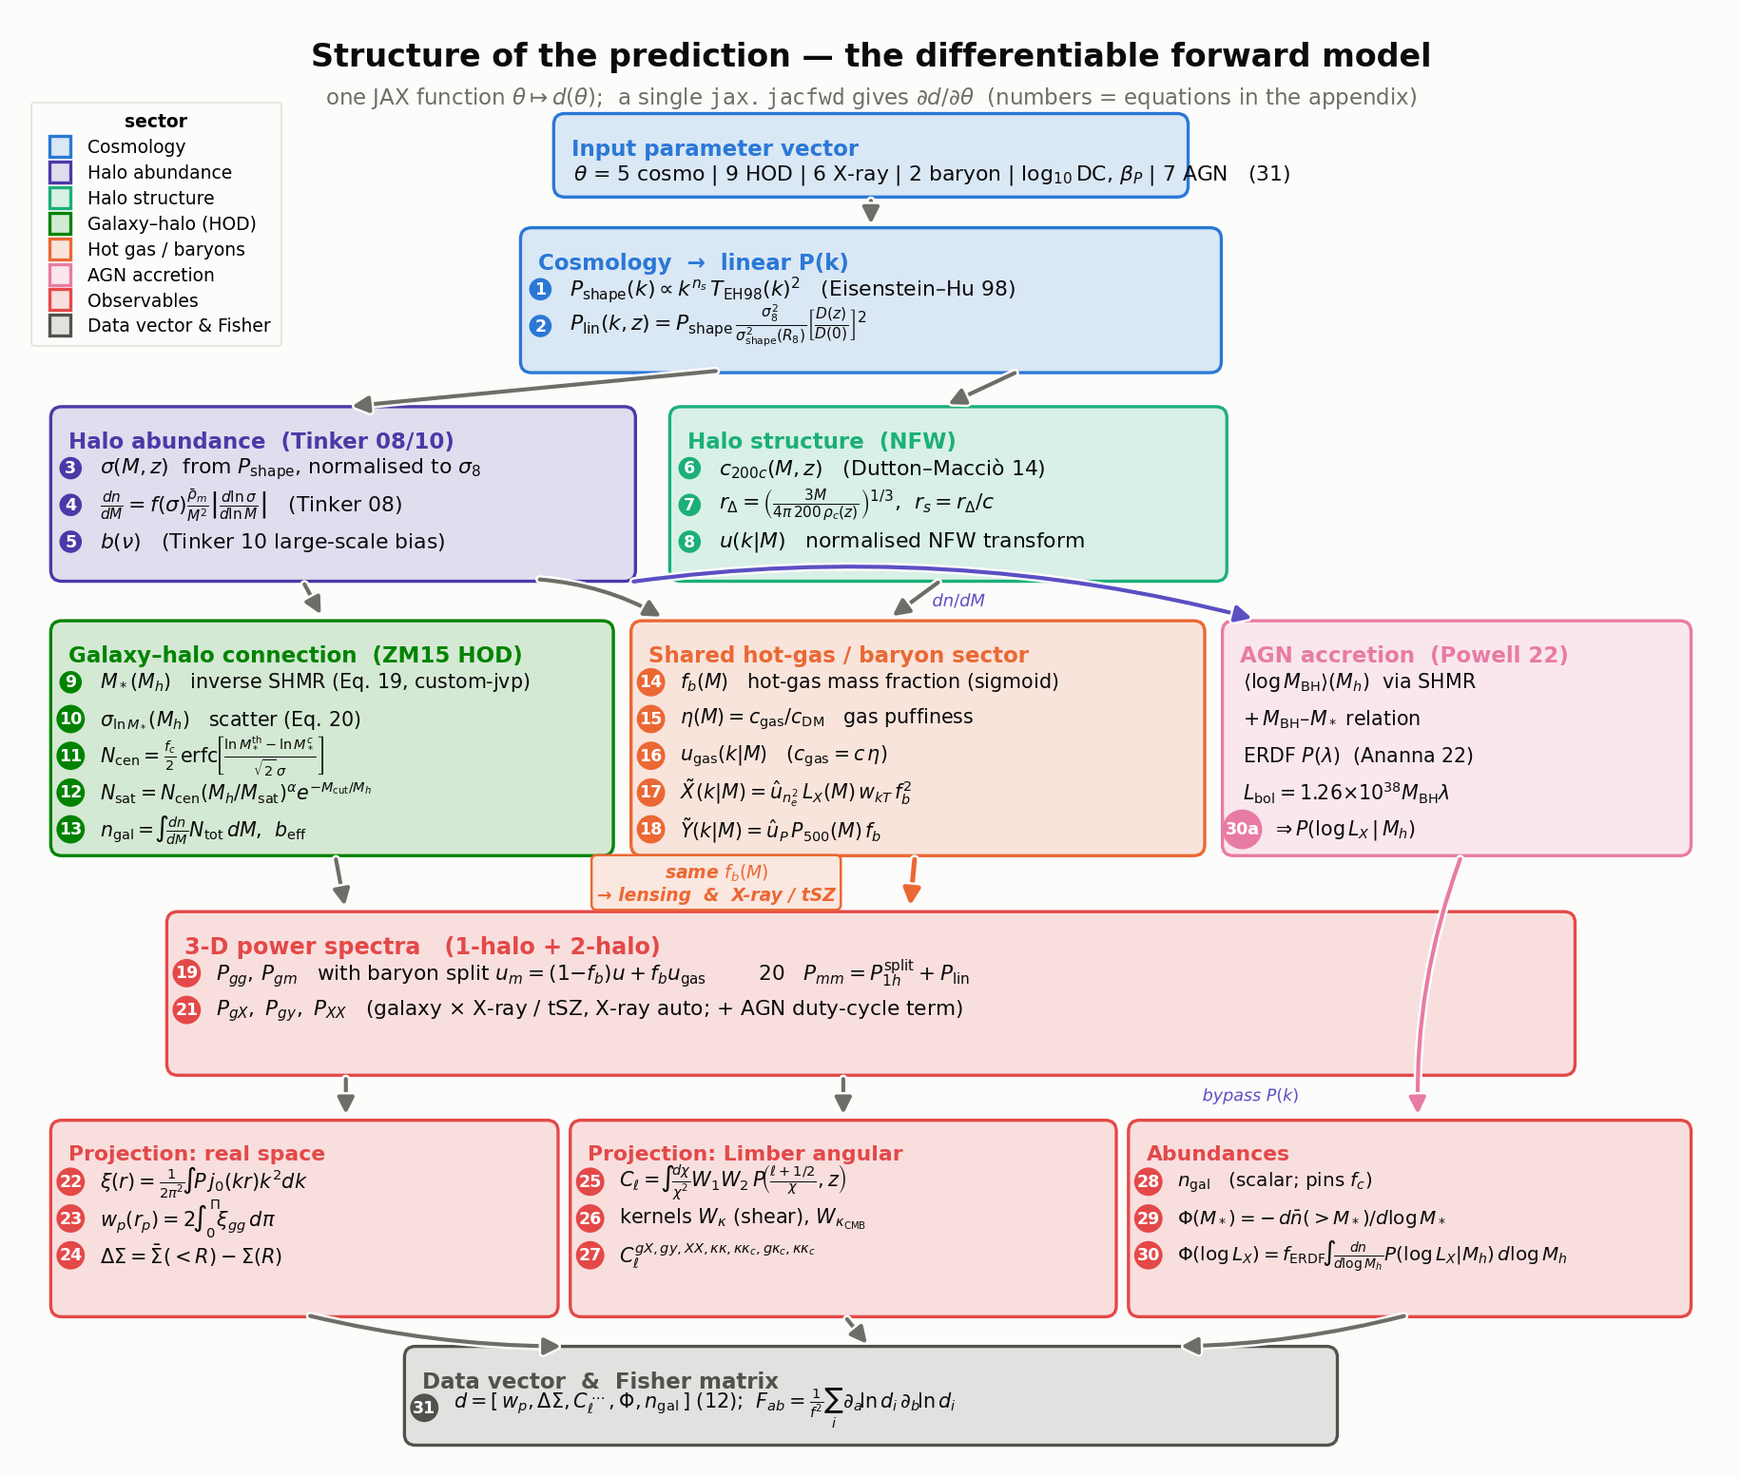
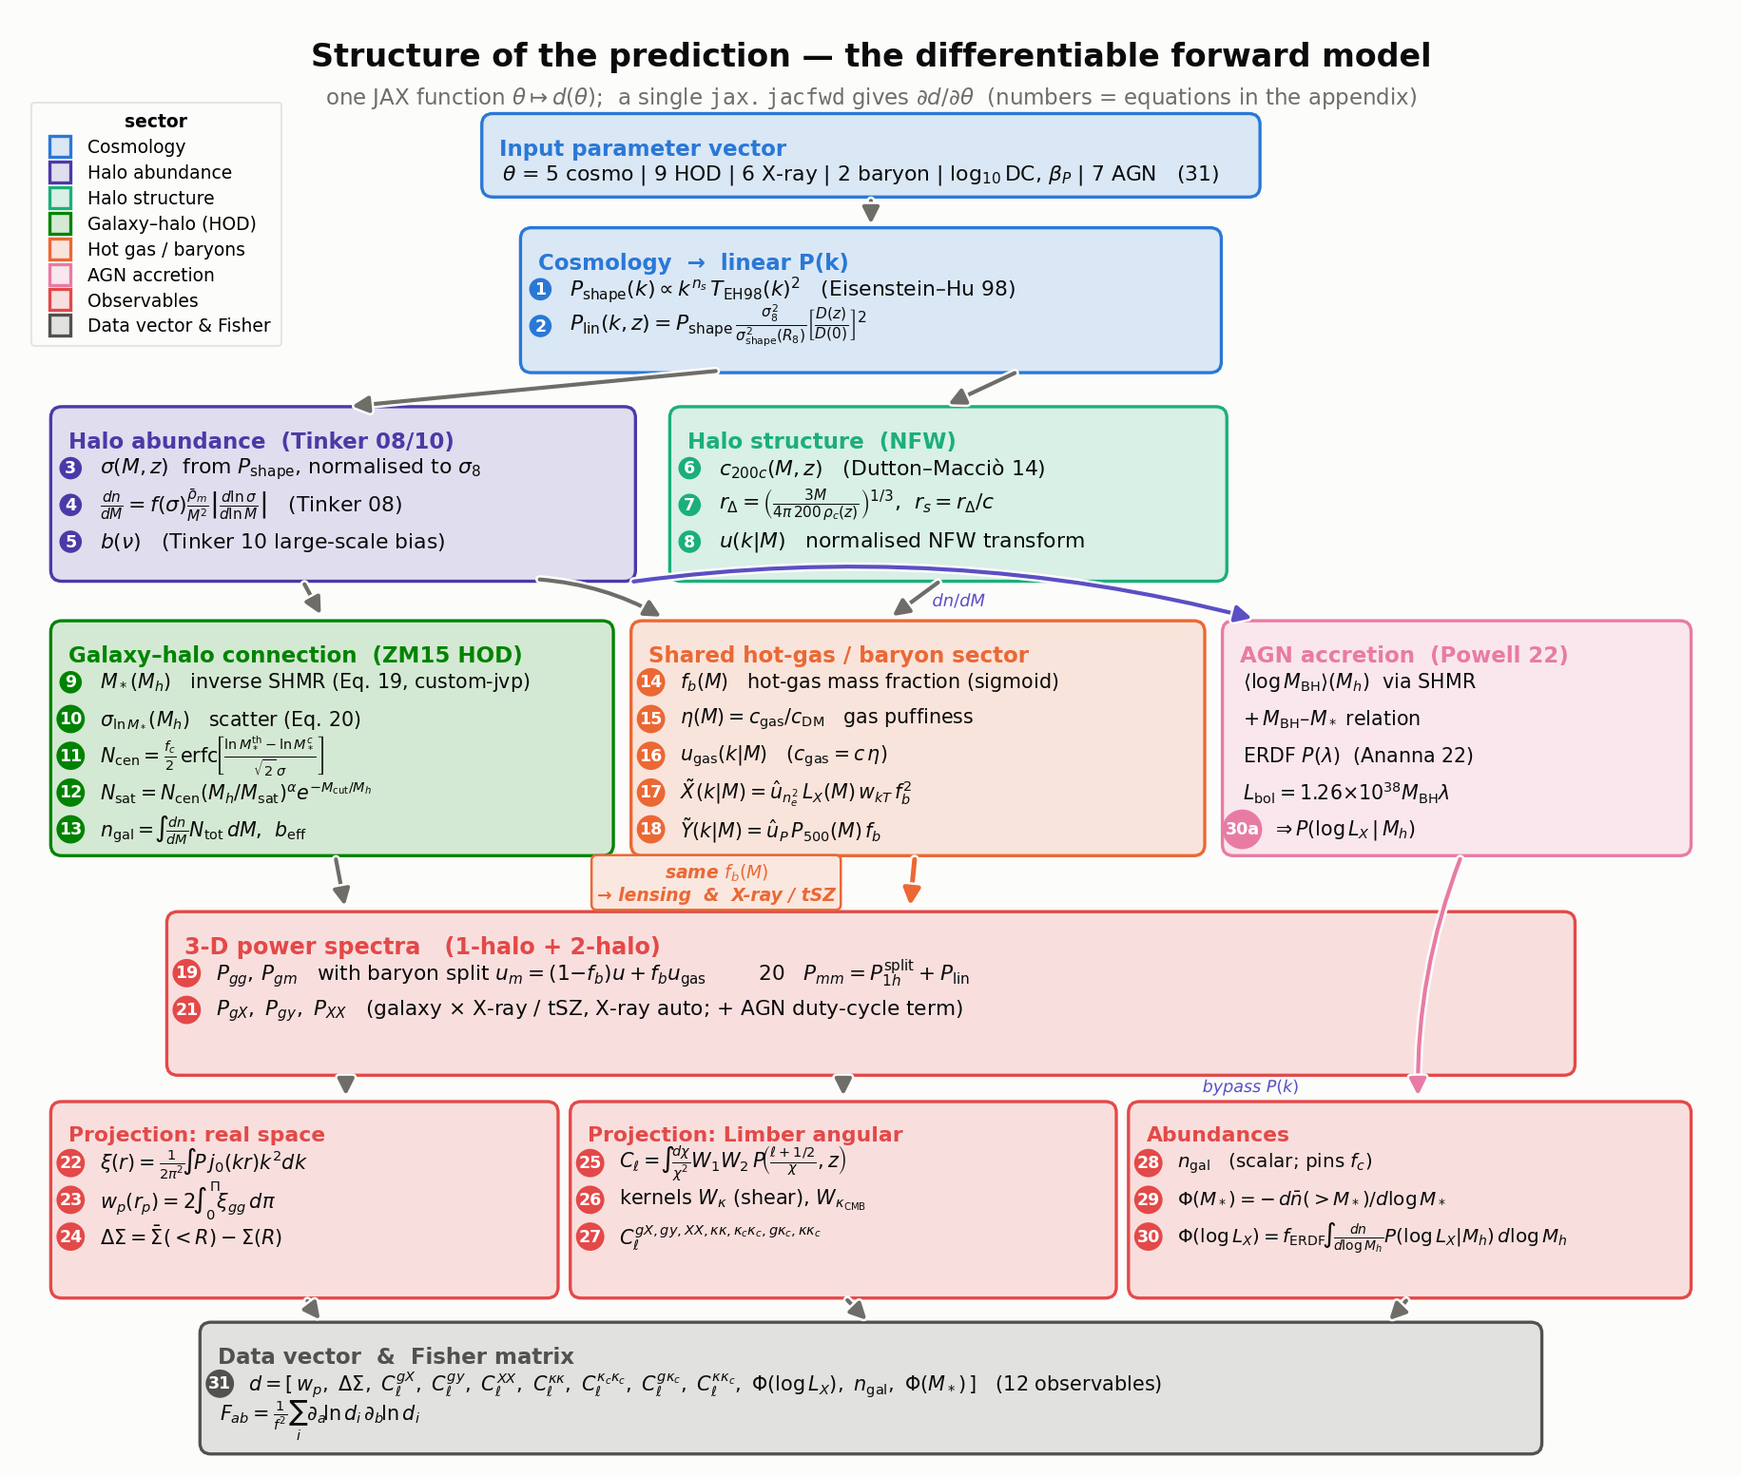
sensitivity_fisher: parameter-freedom robustness (31 vs 111 params)
Quantify the cosmology cost of opening the tier-1 vector to every parameter
the model now supports, on the same twelve-statistic / 229-point data setup.

- make_sensitivity_figures.py: add Figure 10 fig_param_freedom — the published
  31-parameter run vs all-free, from the same 111-parameter Jacobian (post-pub
  params pinned by delta-function priors), writing param_freedom.png.
- docs/sensitivity_fisher.rst: new "price of parameter freedom" section and
  updated degeneracy-breaking caption / freed-parameters note; opening 31->111
  costs only ~11% on sigma(sigma8) and ~19% on sigma(Omega_m) at R_min=0.1.
- make_forward_diagram.py: minor figure tweaks; regenerated sensitivity_fisher
  figures; TODO planning notes.

Changed region(s): [[0.0311, 0.7104, 0.9962, 0.9884], [0.249, 0.0618, 0.7471, 0.1544]]

diff --git a/hod_mod/scripts/forecasts/make_sensitivity_figures.py b/hod_mod/scripts/forecasts/make_sensitivity_figures.py
@@ -10,8 +10,8 @@ Tells one story in four figures:
    five summary statistics: cosmological response **grows towards small scales**,
    and each statistic responds to a different set of parameters.
 3. ``degeneracy_breaking`` — 1σ Fisher ellipses at a fixed small-scale cut,
-   showing how adding an X-ray and/or SZ statistic **breaks** the
-   cosmology↔galaxy-halo-connection degeneracy that limits clustering+lensing.
+   showing how growing the data vector from clustering+lensing to all twelve
+   summary statistics **breaks** the cosmology↔galaxy-halo-connection degeneracy.
 4. ``sigma_vs_scale`` — the thesis plot: σ(σ8), σ(Ω_m) vs the scale cut R_min for
    growing probe sets — the cosmological sensitivity improves towards small scales
    **only to the fuller extent that an X-ray and/or SZ statistic is included**.
@@ -240,12 +240,15 @@ def _ellipse(ax, cov, i, j, cx, cy, color, label, ls="-"):
 
 
 def fig_degeneracy_breaking(model, fid, d0, J, row_obs, row_x, out, rmin=0.1, rel_err=0.01):
-    # pairs showing the cosmology↔(HOD, baryon) degeneracies broken by X-ray/SZ
+    # pairs showing the cosmology↔(HOD, baryon) degeneracies broken as the data
+    # vector grows cumulatively from wp+ΔΣ to all twelve summary statistics
     pairs = [("sigma8", "Omega_m"), ("sigma8", "log10_M_pivot"), ("sigma8", "bsat")]
-    sets = [("wp+ds", ["wp", "ds"], "C0", "-"),
-            ("+ SZ", ["wp", "ds", "cl_gy"], "C2", "--"),
-            ("+ X-ray", ["wp", "ds", "cl_gX", "cl_XX"], "C1", "-."),
-            ("all five", ["wp", "ds", "cl_gX", "cl_gy", "cl_XX"], "C3", "-")]
+    s_cl = ["wp", "ds", "cl_gy", "cl_gX", "cl_XX"]                       # + SZ + X-ray
+    s_le = s_cl + ["cl_kk", "cl_kCMB", "cl_gkCMB", "cl_shear_kCMB"]      # + lensing spectra
+    sets = [("wp+ΔΣ", ["wp", "ds"], "C0", "-"),
+            ("+ SZ + X-ray", s_cl, "C1", "--"),
+            ("+ shear + CMB lensing", s_le, "C2", "-."),
+            (r"all twelve (+ $n_{\rm gal}$, SMF, XLF)", list(OBSERVABLES), "C3", "-")]
     prior = params.regularizing_prior(add_planck=False)   # bounds flat nuisances
     smask0 = model.scale_cut_mask(row_obs, row_x, rmin)
     covs = {}
@@ -266,8 +269,9 @@ def fig_degeneracy_breaking(model, fid, d0, J, row_obs, row_x, out, rmin=0.1, re
         ax.relim(); ax.autoscale_view()
     axes[0].legend(fontsize=9, loc="best")
     fig.suptitle(rf"Degeneracy breaking at $R_{{\min}}={rmin}$ Mpc/h "
-                 rf"(1σ, {rel_err*100:g}% errors): X-ray / SZ cross-statistics shrink and "
-                 rf"de-rotate the cosmology↔galaxy-halo-connection ellipses", fontsize=11.5)
+                 rf"(1σ, {rel_err*100:g}% errors): growing the data vector to all twelve "
+                 rf"statistics shrinks and de-rotates the cosmology↔galaxy-halo-connection "
+                 rf"ellipses", fontsize=11.5)
     fig.tight_layout(rect=[0, 0, 1, 0.94])
     p = os.path.join(out, _PFX + "degeneracy_breaking.png")
     fig.savefig(p, dpi=120); plt.close(fig)
@@ -562,6 +566,102 @@ def fig_xlf_cosmology(model, fid, d0, J, row_obs, row_x, out,
     print("[fig]", p)
 
 
+# ---------------------------------------------------------------------------
+# Figure 10 — parameter freedom: published 31-parameter vector vs all free
+# ---------------------------------------------------------------------------
+
+# Tier-1 parameter vector of the published 2026-07-02 study.  Pinning every
+# parameter added since (missing-physics waves, tier-2/3/4 extensions)
+# reproduces that run from the same Jacobian, so the comparison below isolates
+# the effect of parameter freedom alone.
+_PUBLISHED_31 = [
+    "Omega_m", "sigma8", "h", "n_s", "Omega_b",
+    "lg_m1h", "lg_m0star", "beta", "delta", "gamma", "sigma_lnmstar", "eta",
+    "fc", "bsat", "lx_norm", "lx_slope", "kt_norm", "kt_slope", "p2", "r_max",
+    "log10DC", "beta_pressure", "log10_M_pivot", "log10_eta_min",
+    "agn_mu_bh", "agn_al_bh", "agn_sig_bh", "agn_log10_lstar",
+    "agn_delta1", "agn_delta2", "agn_log10_ferdf",
+]
+
+
+def fig_param_freedom(model, fid, d0, J, row_obs, row_x, out,
+                      rmins=(0.1, 0.5, 2.5, 10.0), rel_err=0.01):
+    """Cosmology cost of opening the parameter space from 31 to all free."""
+    runs = [(f"{len(_PUBLISHED_31)} parameters (published study)",
+             params.regularizing_prior(add_planck=False, fix=tuple(
+                 p for p in PARAM_NAMES if p not in _PUBLISHED_31)), "C0", "o", "-"),
+            (f"all {len(PARAM_NAMES)} parameters free",
+             params.regularizing_prior(add_planck=False), "C3", "D", "-")]
+    iom, is8 = _IDX["Omega_m"], _IDX["sigma8"]
+
+    sig = {}   # label -> (n_rmin, n_param) marginalised sigmas
+    cov01 = {}  # label -> covariance at the smallest scale cut
+    for label, prior, _, _, _ in runs:
+        ss = []
+        for rm in rmins:
+            m = model.scale_cut_mask(row_obs, row_x, rm)
+            F = fisher.fisher_matrix(d0[m], J[m], rel_err, prior)
+            c, s, _ = fisher.constraints(F, ridge=0.0)
+            ss.append(s)
+            if rm == min(rmins):
+                cov01[label] = c
+        sig[label] = np.array(ss)
+
+    fig, axes = plt.subplots(1, 3, figsize=(14, 4.3))
+
+    # --- panel 1: (Omega_m, sigma8) 1σ ellipses at the smallest scale cut ---
+    ax = axes[0]
+    cx, cy = fid[iom], fid[is8]
+    for label, _, color, _, ls in runs:
+        _ellipse(ax, cov01[label], iom, is8, cx, cy, color, label, ls)
+    ax.plot(cx, cy, "k+", ms=9)
+    ax.set_xlabel(params.PARAM_LATEX["Omega_m"])
+    ax.set_ylabel(params.PARAM_LATEX["sigma8"])
+    ax.set_title(rf"$(\Omega_m,\sigma_8)$ at $R_{{\min}}={min(rmins)}$ Mpc/h")
+    ax.legend(fontsize=8.5, loc="best")
+    ax.relim(); ax.autoscale_view()
+
+    # --- panel 2: sigma vs scale cut for both runs ---
+    ax = axes[1]
+    for label, _, color, mk, _ in runs:
+        ax.loglog(rmins, sig[label][:, is8], mk + "-", color=color,
+                  label=label + r"  ($\sigma_8$)")
+        ax.loglog(rmins, sig[label][:, iom], mk + "--", color=color, mfc="none",
+                  label=label + r"  ($\Omega_m$)")
+    ax.set_xlabel(r"scale cut  $R_{\min}\;[\mathrm{Mpc}/h]$")
+    ax.set_ylabel(r"$\sigma(\theta)$")
+    ax.set_title("marginalised errors vs scale cut")
+    ax.invert_xaxis()
+    ax.legend(fontsize=7.5, loc="best")
+
+    # --- panel 3: error-inflation factor from opening the parameter space ---
+    ax = axes[2]
+    l31, lfree = runs[0][0], runs[1][0]
+    ax.semilogx(rmins, sig[lfree][:, is8] / sig[l31][:, is8], "s-", color="C2",
+                label=r"$\sigma_8$")
+    ax.semilogx(rmins, sig[lfree][:, iom] / sig[l31][:, iom], "^--", color="C4",
+                label=r"$\Omega_m$")
+    ax.axhline(1.0, color="k", lw=0.6, ls=":")
+    ax.set_xlabel(r"scale cut  $R_{\min}\;[\mathrm{Mpc}/h]$")
+    ax.set_ylabel(r"$\sigma_{\rm free}/\sigma_{31}$")
+    ax.set_title("error inflation from opening\nthe parameter space")
+    ax.invert_xaxis()
+    ax.legend(fontsize=9)
+
+    fig.suptitle(rf"The cosmology cost of parameter freedom: same twelve statistics, same "
+                 rf"{rel_err*100:g}% errors, no external prior — {len(_PUBLISHED_31)} "
+                 rf"published parameters vs all {len(PARAM_NAMES)} free", fontsize=11.5)
+    fig.tight_layout(rect=[0, 0, 1, 0.93])
+    p = os.path.join(out, _PFX + "param_freedom.png")
+    fig.savefig(p, dpi=120); plt.close(fig)
+    print("[fig]", p)
+    # numbers for the doc text
+    for j, nm in [(is8, "sigma8"), (iom, "Omega_m")]:
+        r = sig[lfree][:, j] / sig[l31][:, j]
+        print(f"[freedom] {nm}: sigma31={sig[l31][0, j]:.3e} free={sig[lfree][0, j]:.3e} "
+              f"inflation Rmin=0.1: x{r[0]:.2f}  Rmin=10: x{r[-1]:.2f}")
+
+
 def main():
     out = _docs_images()
     fid = params.fiducial_vector()
@@ -576,6 +676,7 @@ def main():
     fig_shear_vs_ds_baryons(model, fid, out)
     fig_energy_closure(fid, out)
     fig_xlf_cosmology(model, fid, d0, J, row_obs, row_x, out)
+    fig_param_freedom(model, fid, d0, J, row_obs, row_x, out)
     print("[done] figures in", out)
 
 

diff --git a/hod_mod/scripts/forecasts/make_forward_diagram.py b/hod_mod/scripts/forecasts/make_forward_diagram.py
@@ -144,7 +144,7 @@ def make_figure(out_dir=None, *, beamer=False):
             ha="center", va="top", fontsize=11, color=_MUTED)
 
     # ---- S0 : inputs -------------------------------------------------
-    s0 = _box(ax, 4.9, 11.55, 5.7, 0.72, "cosmo",
+    s0 = _box(ax, 4.25, 11.55, 7.0, 0.72, "cosmo",
               "Input parameter vector",
               [(None, r"$\theta$ = 5 cosmo | 9 HOD | 6 X-ray | 2 baryon | "
                       r"$\log_{10}$DC, $\beta_P$ | 7 AGN   (31)")],
@@ -209,20 +209,20 @@ def make_figure(out_dir=None, *, beamer=False):
               title_size=11.5, eq_size=10.4)
 
     # ---- S8 : projection & abundance ---------------------------------
-    s8a = _box(ax, 0.35, 1.35, 4.55, 1.75, "obs",
+    s8a = _box(ax, 0.35, 1.52, 4.55, 1.75, "obs",
                "Projection: real space",
                [("22", r"$\xi(r)=\frac{1}{2\pi^2}\!\int\!P\,j_0(kr)k^2dk$"),
                 ("23", r"$w_p(r_p)=2\!\int_0^{\Pi}\!\xi_{gg}\,d\pi$"),
                 ("24", r"$\Delta\Sigma=\bar\Sigma({<}R)-\Sigma(R)$")],
                title_size=10.5, eq_size=10.0)
-    s8b = _box(ax, 5.05, 1.35, 4.9, 1.75, "obs",
+    s8b = _box(ax, 5.05, 1.52, 4.9, 1.75, "obs",
                "Projection: Limber angular",
                [("25", r"$C_\ell=\!\int\!\frac{d\chi}{\chi^2}W_1W_2\,"
                        r"P\!\left(\frac{\ell+1/2}{\chi},z\right)$"),
                 ("26", r"kernels $W_\kappa$ (shear), $W_{\kappa_{\rm CMB}}$"),
-                ("27", r"$C_\ell^{gX,gy,XX,\kappa\kappa,\kappa\kappa_c,g\kappa_c,\kappa\kappa_c}$")],
+                ("27", r"$C_\ell^{gX,gy,XX,\kappa\kappa,\kappa_c\kappa_c,g\kappa_c,\kappa\kappa_c}$")],
                title_size=10.5, eq_size=10.0)
-    s8c = _box(ax, 10.1, 1.35, 5.05, 1.75, "obs",
+    s8c = _box(ax, 10.1, 1.52, 5.05, 1.75, "obs",
                "Abundances",
                [("28", r"$n_{\rm gal}$   (scalar; pins $f_c$)"),
                 ("29", r"$\Phi(M_*)=-\,d\bar n({>}M_*)/d\log M_*$"),
@@ -231,10 +231,13 @@ def make_figure(out_dir=None, *, beamer=False):
                title_size=10.5, eq_size=9.6)
 
     # ---- S9 : data vector + Fisher -----------------------------------
-    s9 = _box(ax, 3.55, 0.18, 8.4, 0.86, "fisher",
+    s9 = _box(ax, 1.7, 0.10, 12.1, 1.16, "fisher",
               "Data vector  &  Fisher matrix",
-              [("31", r"$d=[\,w_p,\Delta\Sigma,C_\ell^{\dots},\Phi,n_{\rm gal}\,]$ (12);  "
-                      r"$F_{ab}=\frac{1}{f^2}\sum_i\partial_a\!\ln d_i\,\partial_b\!\ln d_i$")],
+              [("31", r"$d=[\,w_p,\ \Delta\Sigma,\ C_\ell^{gX},\ C_\ell^{gy},\ C_\ell^{XX},"
+                      r"\ C_\ell^{\kappa\kappa},\ C_\ell^{\kappa_c\kappa_c},\ C_\ell^{g\kappa_c},"
+                      r"\ C_\ell^{\kappa\kappa_c},\ \Phi(\log L_X),\ n_{\rm gal},"
+                      r"\ \Phi(M_*)\,]$   (12 observables)"),
+               (None, r"$F_{ab}=\frac{1}{f^2}\sum_i\partial_a\!\ln d_i\,\partial_b\!\ln d_i$")],
               title_size=11, eq_size=10.0)
 
     # ---- flow arrows (drawn in front of the boxes, with a white halo) ----
@@ -263,19 +266,19 @@ def make_figure(out_dir=None, *, beamer=False):
             bbox=dict(boxstyle="round,pad=0.3", fc=_tint(SECTOR["gas"][0], 0.14),
                       ec=SECTOR["gas"][0], lw=1.2))
     # AGN → XLF (abundance)
-    _arrow(ax, (13.1, 5.55), (12.7, 3.12), color=SECTOR["agn"][0], rad=0.10)
+    _arrow(ax, (13.1, 5.55), (12.7, 3.29), color=SECTOR["agn"][0], rad=0.10)
     # power spectra → projections
-    _arrow(ax, (3.0, 3.55), (3.0, 3.12))
-    _arrow(ax, (7.5, 3.55), (7.5, 3.12))
+    _arrow(ax, (3.0, 3.55), (3.0, 3.29))
+    _arrow(ax, (7.5, 3.55), (7.5, 3.29))
     # abundances bypass the 3-D power spectra (n_gal / SMF come straight from the
     # HOD occupation × dn/dM); flagged by a note rather than a box-crossing arrow.
-    ax.text(10.75, 3.34, "bypass $P(k)$", color=_VIO, fontsize=8.4, style="italic",
+    ax.text(10.75, 3.42, "bypass $P(k)$", color=_VIO, fontsize=8.4, style="italic",
             ha="left", va="center", zorder=7,
             path_effects=[pe.withStroke(linewidth=2.6, foreground=_SURFACE)])
     # projections → data vector / Fisher
-    _arrow(ax, bottom(s8a), (5.0, 1.06), rad=0.06)
+    _arrow(ax, bottom(s8a), (2.8, 1.26), rad=0.04)
     _arrow(ax, bottom(s8b), top(s9))
-    _arrow(ax, bottom(s8c), (10.5, 1.06), rad=-0.06)
+    _arrow(ax, bottom(s8c), (12.4, 1.26), rad=-0.04)
 
     # ---- sector legend (upper-left, in the empty corner) ------------
     _short = {"cosmo": "Cosmology", "hmf": "Halo abundance", "prof": "Halo structure",

diff --git a/docs/sensitivity_fisher.rst b/docs/sensitivity_fisher.rst
@@ -185,12 +185,15 @@ function panel above) — so they pin the occupation and the halo-mass scale
    :width: 100%
 
    1σ Fisher ellipses at a small-scale cut (:math:`R_{\min}=0.1` Mpc/h, 1 %
-   errors, weakly-informative nuisance priors).  Adding SZ (green), X-ray
-   (orange) and both (red) **shrinks** and **de-rotates** the ellipses of
-   :math:`\sigma_8` with :math:`\Omega_m`, with the baryon-feedback mass scale
-   :math:`\log_{10}M_{\rm pivot}` (middle — see the next section), and with the
-   satellite amplitude :math:`b_{\rm sat}`.  De-rotation is the signature of a
-   broken degeneracy, not merely more data.
+   errors, weakly-informative nuisance priors).  The data vector grows
+   cumulatively: clustering + galaxy–galaxy lensing (blue), :math:`+` SZ
+   :math:`+` X-ray (orange), :math:`+` cosmic-shear and CMB-lensing spectra
+   (green), and all twelve statistics (red, adding :math:`n_{\rm gal}`, the SMF
+   and the AGN XLF).  Each addition **shrinks** and **de-rotates** the ellipses
+   of :math:`\sigma_8` with :math:`\Omega_m`, with the baryon-feedback mass
+   scale :math:`\log_{10}M_{\rm pivot}` (middle — see the next section), and
+   with the satellite amplitude :math:`b_{\rm sat}`.  De-rotation is the
+   signature of a broken degeneracy, not merely more data.
 
 
 The result: small scales help — conditionally
@@ -240,6 +243,49 @@ lensing power spectra — cosmic shear and CMB lensing — contribute the larges
 independent share of the total gain.  The abundance statistics
 (:math:`n_{\rm gal}`, SMF, XLF) instead target the occupation (:math:`f_c`, the
 SHMR), leaving :math:`\sigma_8/\Omega_m` essentially unchanged.
+
+
+The price of parameter freedom: 31 free parameters vs 111
+-----------------------------------------------------------
+
+The study documented on this page was published with the original
+**31-parameter** tier-1 vector.  The model has since grown to **111 parameters**
+(the :doc:`missing-physics <missing_physics>` waves and the tier-2/3/4
+extensions: extra HOD / baryon / AGN shape parameters, redshift-evolution
+slopes, an X-ray spectral sector, quenching, morphology, dark energy
+:math:`w_0, w_a`, :math:`\sum m_\nu`, …), which the tier-1 scripts pin to their
+fiducials by default (``--free-tier2`` releases them).  Rerunning the identical
+data setup — the same twelve statistics, the same 229 data points, the same
+constant 1 % errors, weakly-informative priors only — with **everything free**
+asks the sharpest version of the robustness question: *how much cosmology is
+lost when nothing is held fixed?*
+
+.. figure:: _images/sensitivity_fisher__param_freedom.png
+   :width: 100%
+
+   Both runs are derived from the same 111-parameter Jacobian: the published
+   case pins the 80 post-publication parameters with delta-function priors, so
+   the comparison isolates the effect of parameter freedom alone.  **Left**:
+   the :math:`(\Omega_m,\sigma_8)` 1σ ellipse at :math:`R_{\min}=0.1` Mpc/h
+   barely inflates and does **not rotate** — no new degeneracy direction
+   opens.  **Middle**: marginalised errors vs scale cut for the two runs.
+   **Right**: the error-inflation factor stays :math:`\lesssim\times1.2` at
+   every scale cut — from :math:`R_{\min}=10` to :math:`0.1` Mpc/h it is
+   ×1.05→×1.11 for :math:`\sigma_8` and ×1.10→×1.19 for :math:`\Omega_m`.
+
+The cosmology is nearly free of charge: opening the parameter space from 31 to
+111 free parameters costs only **11 % on** :math:`\sigma(\sigma_8)` **and 19 %
+on** :math:`\sigma(\Omega_m)` at the smallest scale cut
+(:math:`\sigma(\sigma_8)=1.45\to1.61\times10^{-3}`,
+:math:`\sigma(\Omega_m)=0.92\to1.09\times10^{-3}`).  This is the
+self-calibration argument of the previous section at full strength: the
+twelve-statistic vector measures the newly-freed parameters that *do* touch the
+observables (the satellite and baryon shape sectors, the X-ray spectral sector,
+quenching, …) well enough that marginalising them is cheap, while the
+parameters it cannot see (the HI / radio / IR sectors of tier 3) sit in
+cosmology-orthogonal directions and simply return their priors.  The mild
+growth of the penalty towards small :math:`R_{\min}` mirrors the baryon story
+below: the new freedom lives mostly in the one-halo regime.
 
 
 Baryonic feedback: contaminating lensing, calibrated by X-ray / SZ
@@ -688,7 +734,10 @@ Parameters that could be freed
    :doc:`tier-2 forecast <tier2_forecast>` (61 parameters in the original
    design; 90 with the :doc:`missing-physics extension <missing_physics>`);
    the tier-1 scripts pin the extension to its fiducials by default
-   (``--free-tier2`` to release).
+   (``--free-tier2`` to release).  The cosmology cost of releasing
+   *everything* on this same twelve-statistic data vector is quantified in
+   the parameter-freedom figure above: :math:`\lesssim20\%` on
+   :math:`\sigma(\Omega_m)` and :math:`\sigma(\sigma_8)`.
 
 Beyond the 31 in the vector, about **21 more parameters** could be freed: **16**
 currently-fixed nuisance shape parameters the machinery already supports (only a
